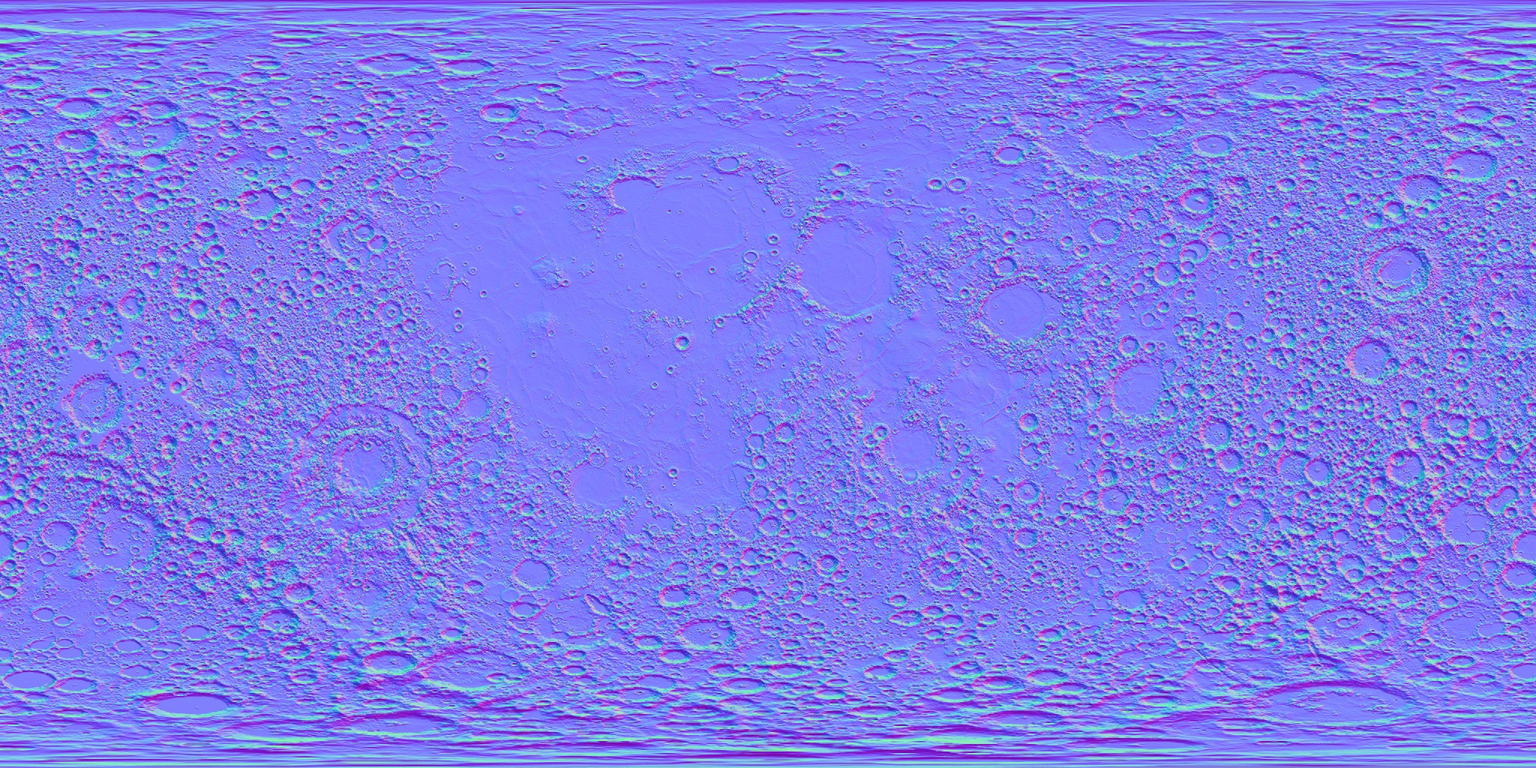
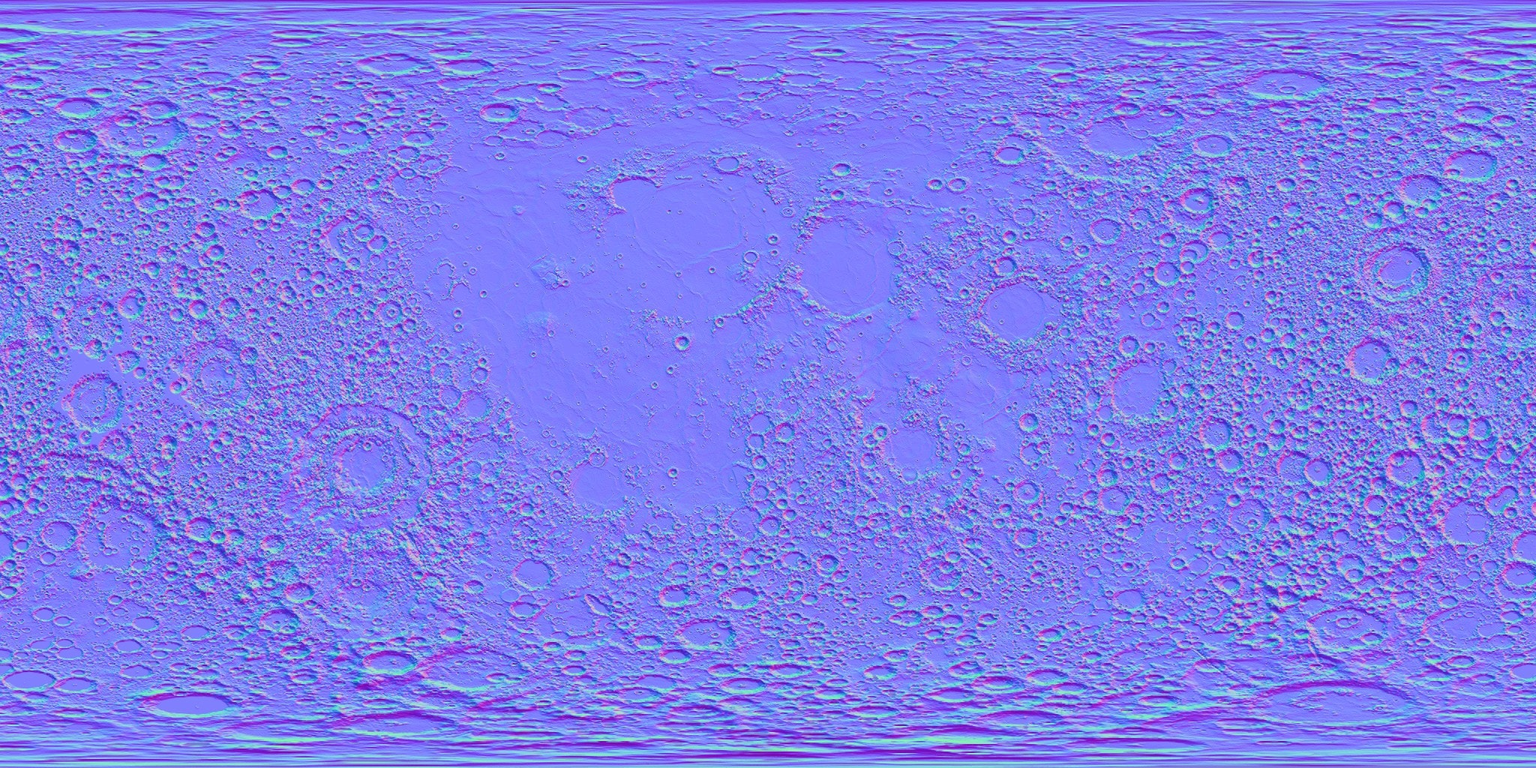
Compressed some images

diff --git a/js/3d.js b/js/3d.js
@@ -1,5 +1,8 @@
 var moonColor;
 var moonNormal;
+var phaseMoonColor;
+var phaseMoonNormal;
+var moonBlurMap;
 
 var cnvs = document.getElementById('moon')
 
@@ -19,9 +22,11 @@ var scene = new THREE.Scene();
 function loadTextures() {
   var loader = new THREE.TextureLoader()
 
-  moonColor   = loader.load('/moon/img/moon-color-min.jpg')
-  moonNormal  = loader.load('/moon/img/moon-normal-min.jpg')
-  moonBlurMap = loader.load('/moon/img/moon-blur.png')
+  moonColor       = loader.load('/moon/img/moon-color-min.jpg')
+  phaseMoonColor  = loader.load('/moon/img/moon-color-2048.jpg')
+  phaseMoonNormal = loader.load('/moon/img/moon-normal-2048.jpg')
+  moonNormal      = loader.load('/moon/img/moon-normal-min.jpg')
+  moonBlurMap     = loader.load('/moon/img/moon-blur.png')
 }
 
 loadTextures()

diff --git a/js/phases.js b/js/phases.js
@@ -16,8 +16,8 @@ var phaseScene = new THREE.Scene();
 
 var phaseMoonG = new THREE.IcosahedronGeometry(100, 3)
 var phaseMoonM = new THREE.MeshStandardMaterial({
-  map: moonColor,
-  normalMap: moonNormal,
+  map: phaseMoonColor,
+  normalMap: phaseMoonNormal,
   normalScale: new THREE.Vector3(0.2, 0.2),
   roughness: 1
 });
